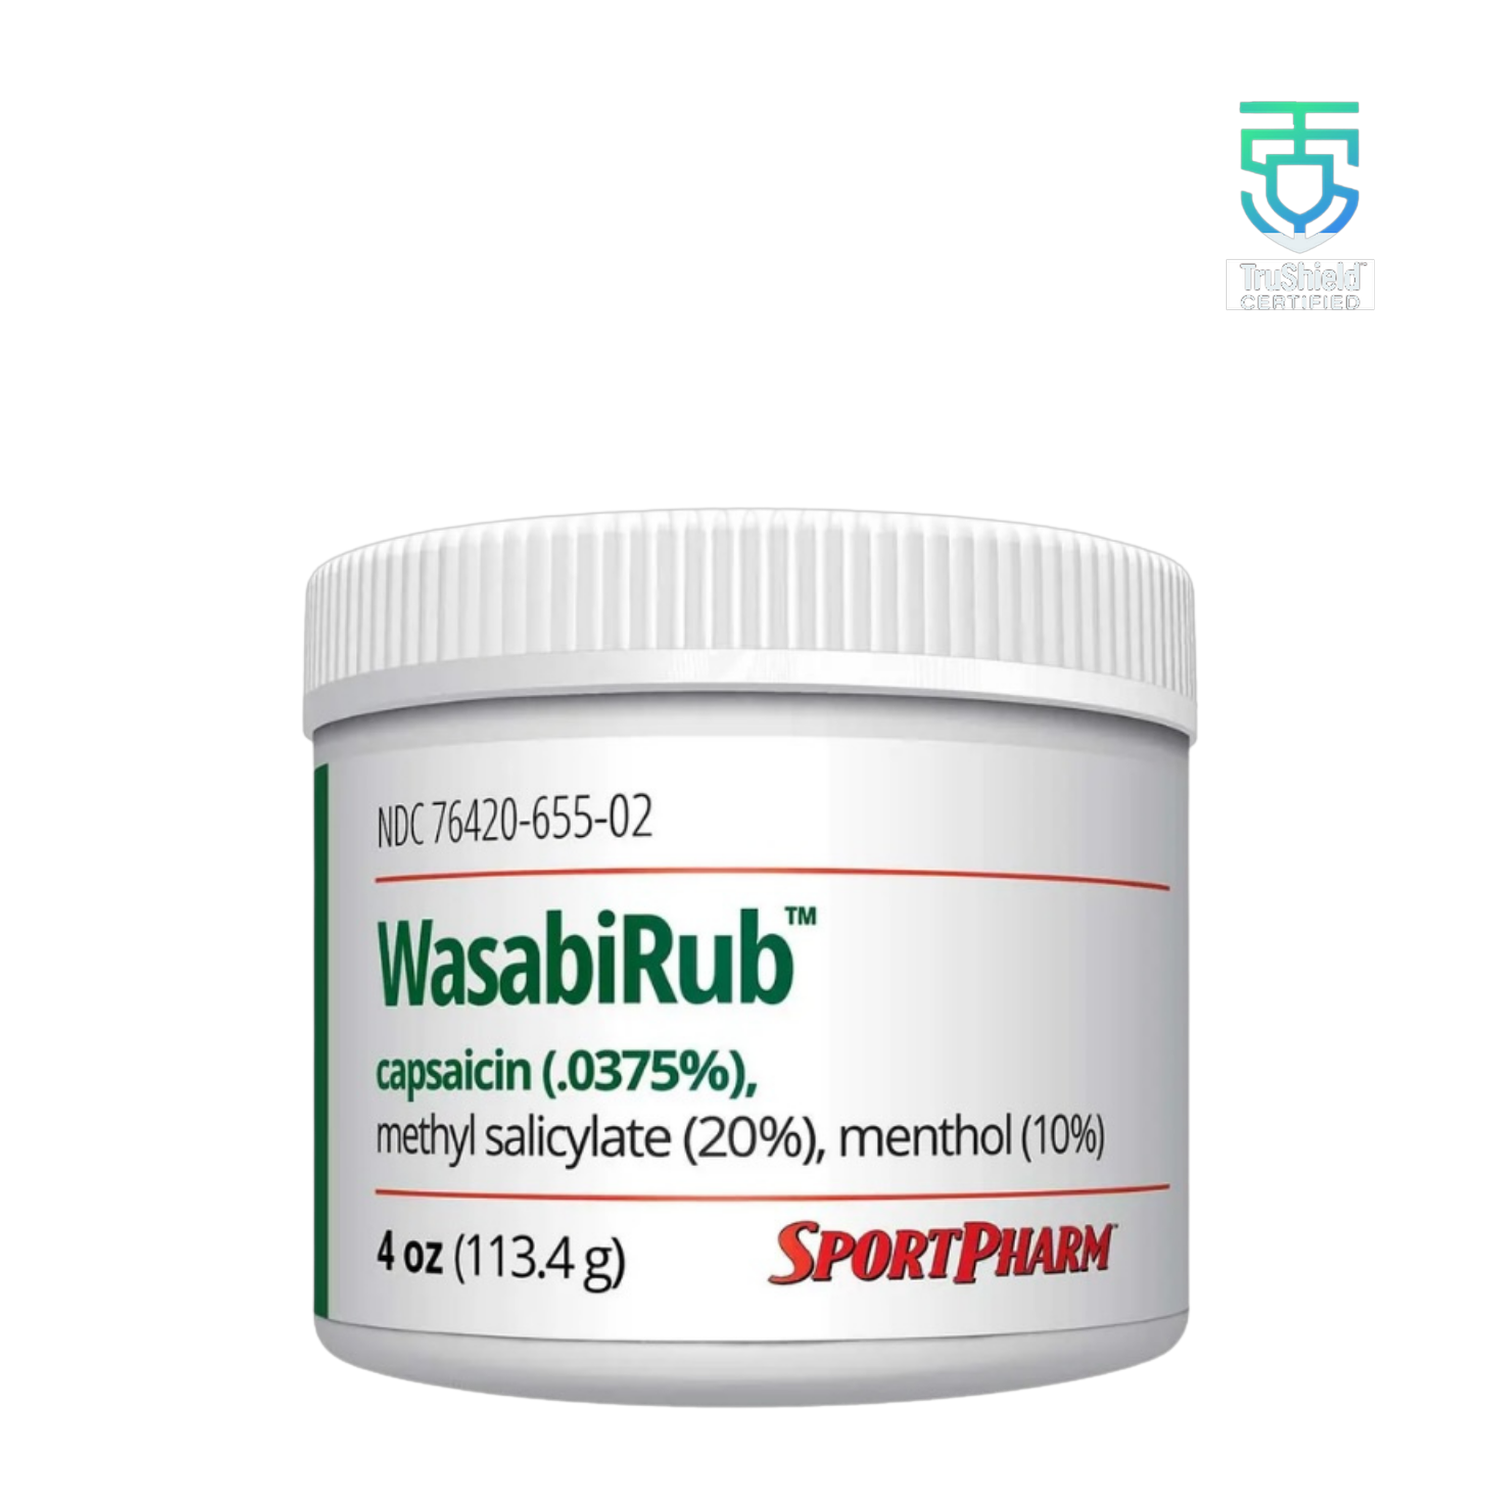
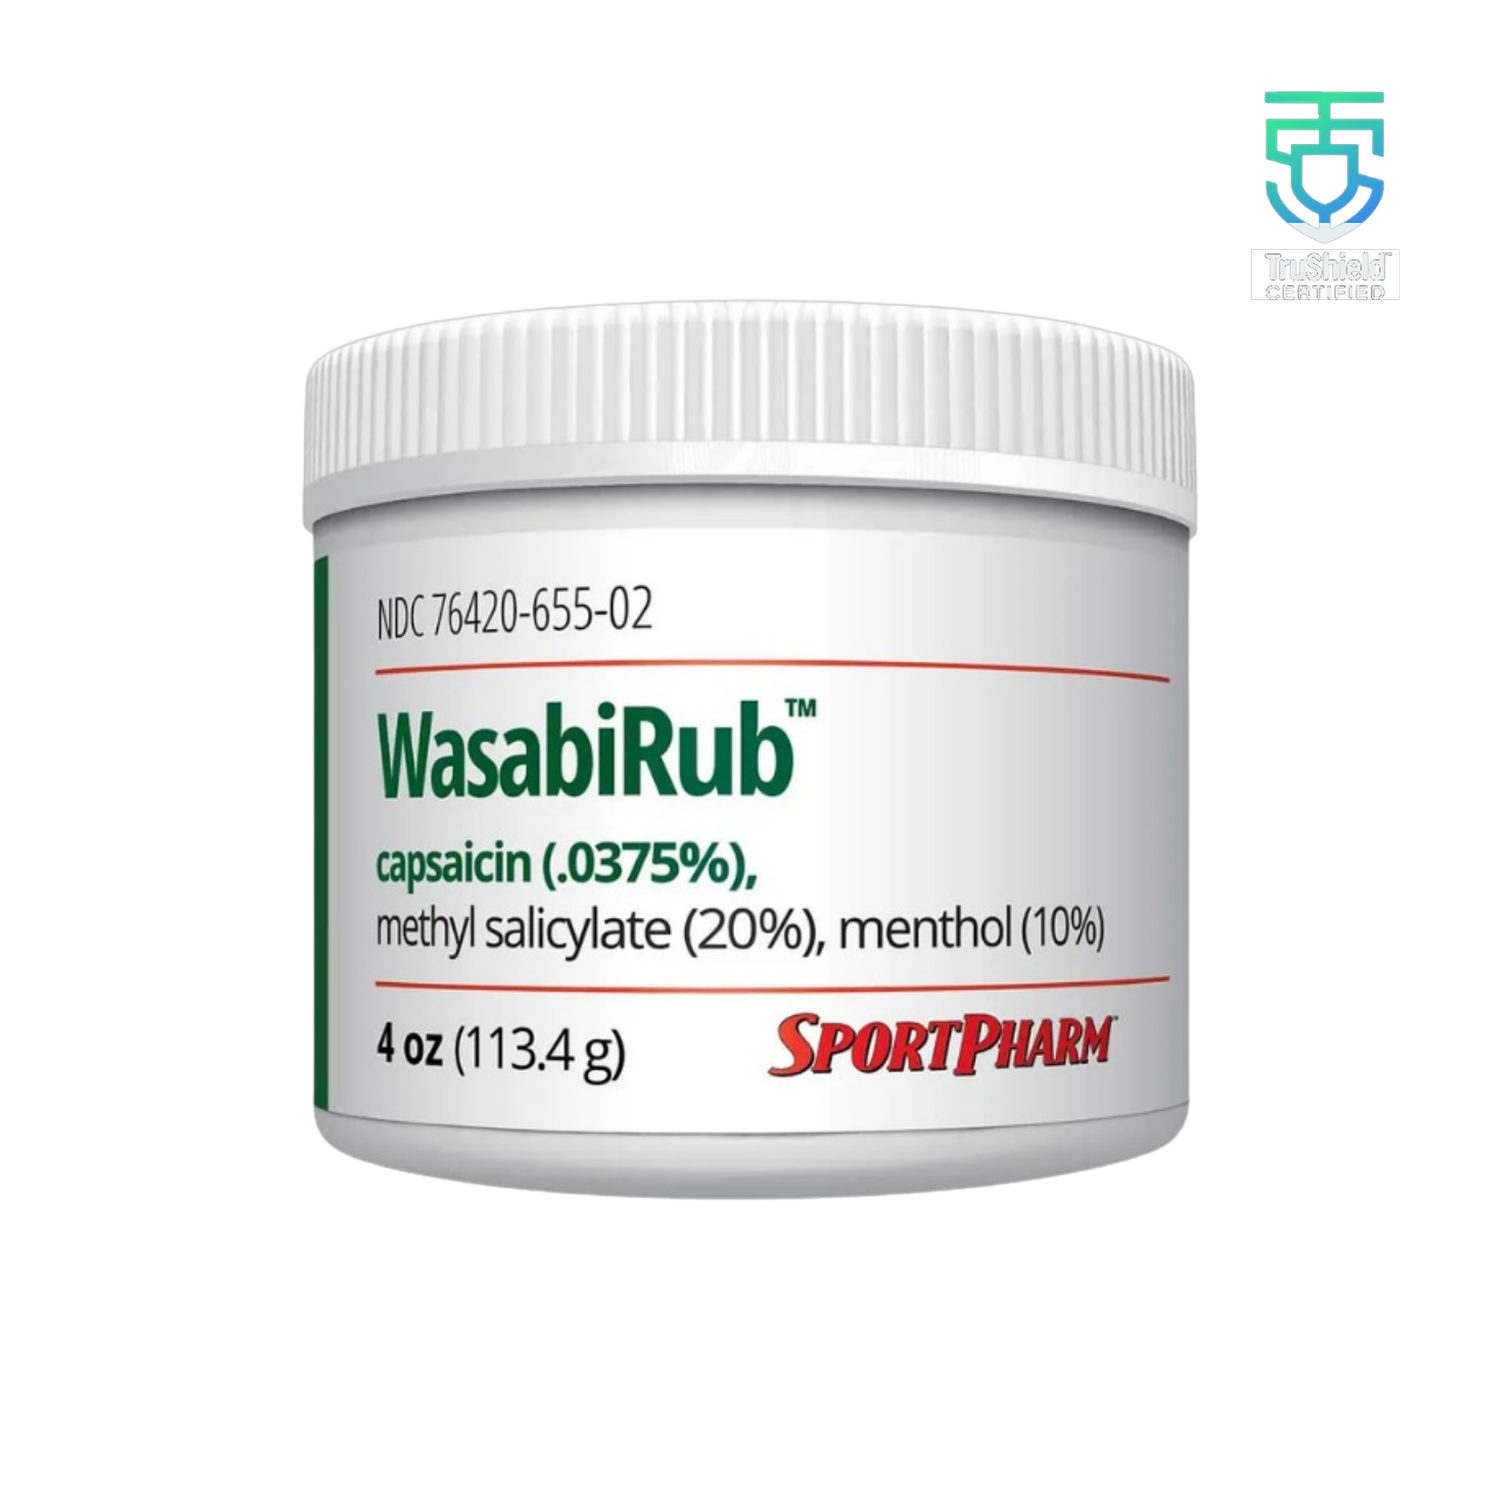
WasabiRub hero: center the jar within the orbit rings (badge stays top-right); cache-bump ?v=5

Changed region(s): [[0.184, 0.2147, 0.7973, 0.9507], [0.828, 0.0613, 0.92, 0.2147]]

diff --git a/wasabirub.html b/wasabirub.html
@@ -225,7 +225,7 @@
         <div class="hero-product">
           <div class="orbit one"></div><div class="orbit two"></div>
           <div class="temp cool">COOL</div><div class="temp heat">HEAT</div>
-          <img src="assets/wr-wasabirub-hero.png?v=3" alt="WasabiRub triple-action sports topical pain relief gel — TruShield Certified">
+          <img src="assets/wr-wasabirub-hero.png?v=5" alt="WasabiRub triple-action sports topical pain relief gel — TruShield Certified">
         </div>
       </div>
     </section>
